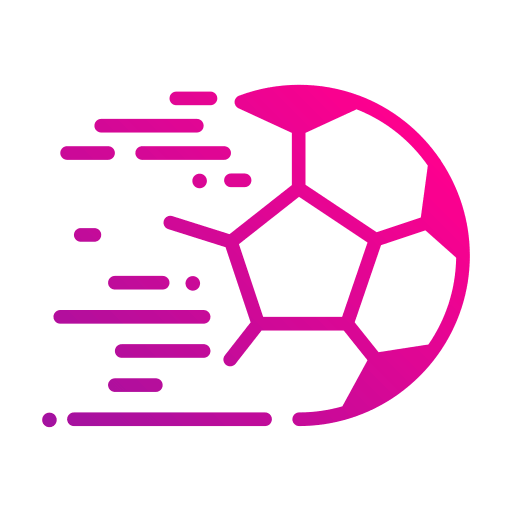
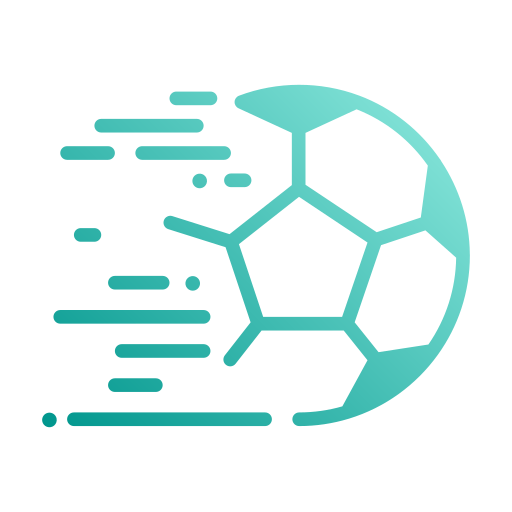
Add WWC2023 images

diff --git a/public/index.html b/public/index.html
@@ -4,10 +4,9 @@
     <meta charset="utf-8"/>
     <link rel="icon" href="%PUBLIC_URL%/favicon.ico"/>
     <meta name="viewport" content="width=device-width, initial-scale=1"/>
-    <meta name="theme-color" content="#000000"/>
     <meta
             name="description"
-            content="WC2022 - an unofficial fantasy game"
+            content="WWC2023 - an unofficial fantasy game"
     />
     <!--
       manifest.json provides metadata used when your web app is installed on a
@@ -18,12 +17,13 @@
     <link rel="icon" type="image/png" sizes="32x32" href="/assets/favicon-32x32.png">
     <link rel="icon" type="image/png" sizes="16x16" href="/assets/favicon-16x16.png">
     <link rel="manifest" href="/assets/site.webmanifest">
+    <link rel="mask-icon" href="/assets/safari-pinned-tab.svg" color="#5bbad5">
     <link rel="shortcut icon" href="/assets/favicon.ico">
-    <meta name="apple-mobile-web-app-title" content="WC2022">
-    <meta name="application-name" content="WC2022">
-    <meta name="msapplication-TileColor" content="#603cba">
+    <meta name="apple-mobile-web-app-title" content="WWC2023">
+    <meta name="application-name" content="WWC2023">
+    <meta name="msapplication-TileColor" content="#00aba9">
     <meta name="msapplication-config" content="/assets/browserconfig.xml">
-    <meta name="theme-color" content="#2b0948">
+    <meta name="theme-color" content="#00968D">
 
     <link rel="preconnect" href="https://fonts.googleapis.com">
     <link rel="preconnect" href="https://fonts.gstatic.com" crossorigin>
@@ -39,7 +39,7 @@
       work correctly both with client-side routing and a non-root public URL.
       Learn how to configure a non-root public URL by running `npm run build`.
     -->
-    <title>WC2022</title>
+    <title>WWC2023</title>
 </head>
 <body>
 <noscript>You need to enable JavaScript to run this app.</noscript>
